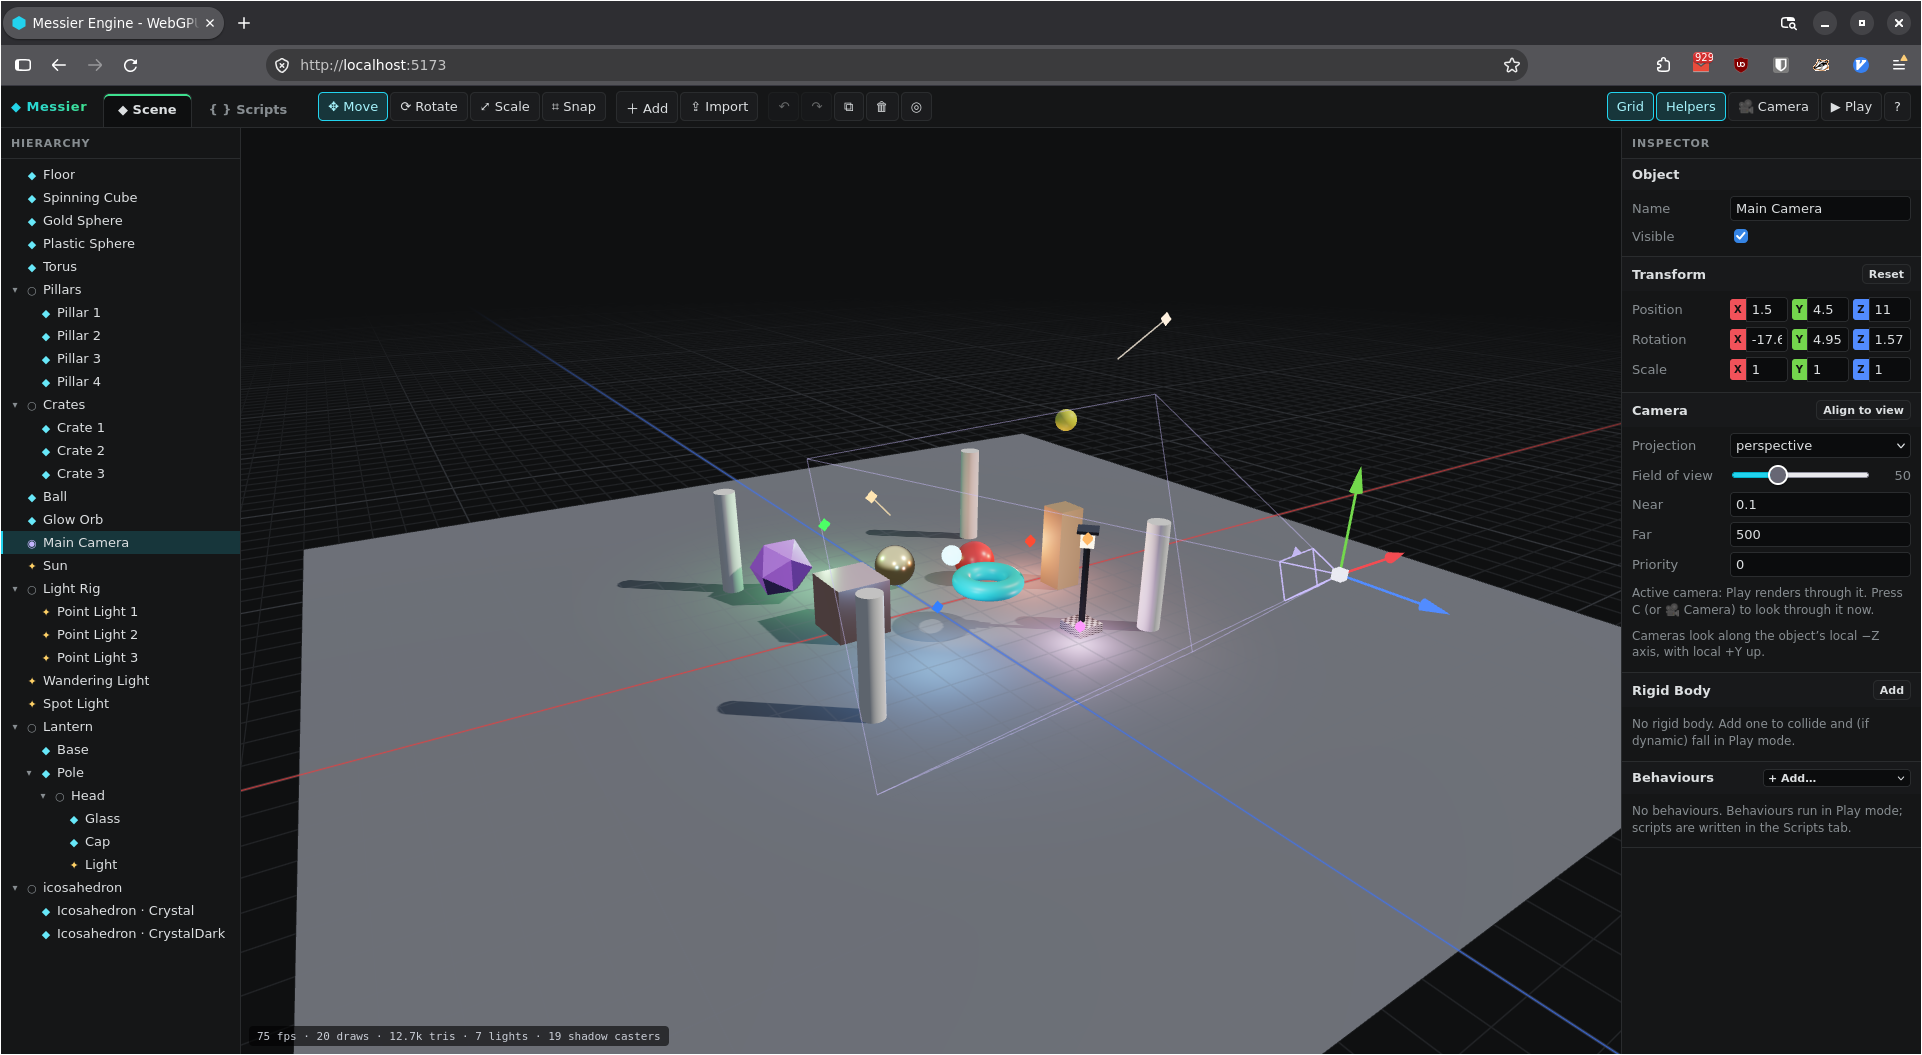
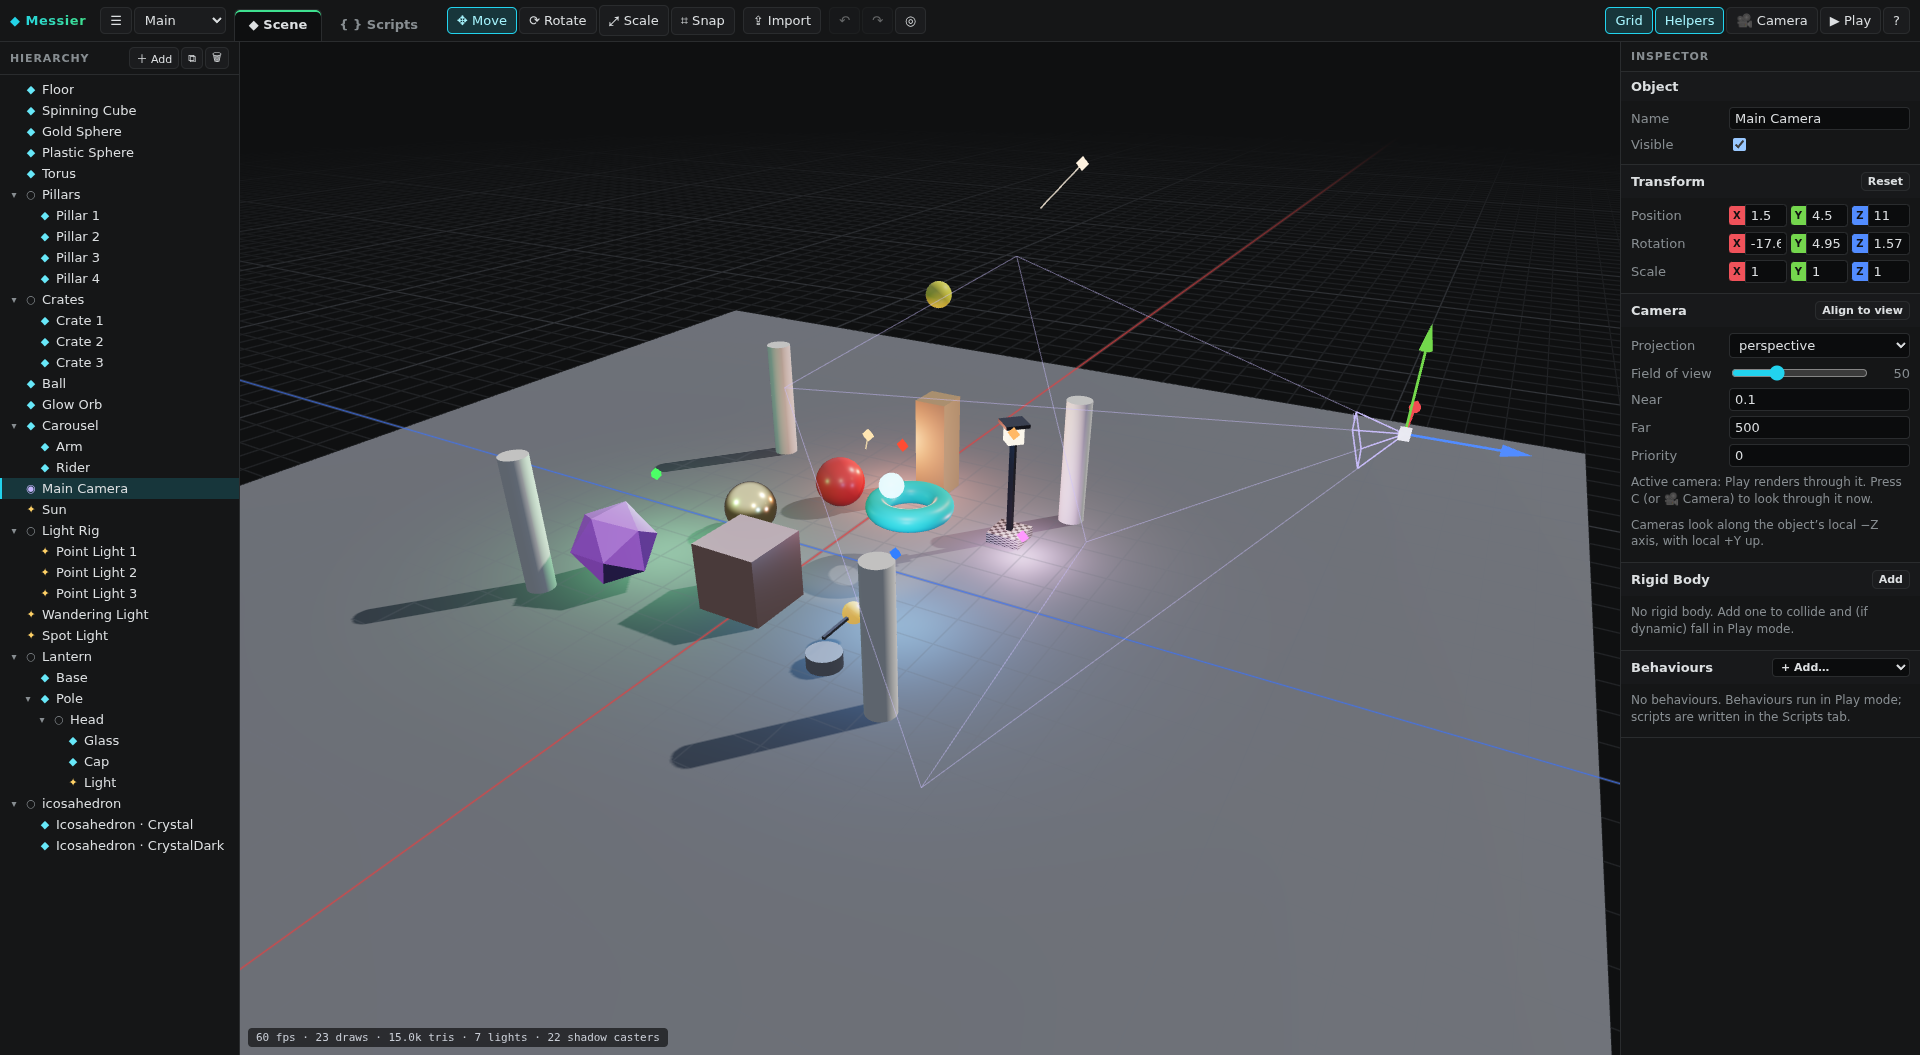
updated UI, new screenshot

diff --git a/index.html b/index.html
@@ -40,32 +40,12 @@
         </div>
 
         <div class="group scene-only">
-          <details class="menu add-menu">
-            <summary class="btn">＋ Add</summary>
-            <div class="menu-items">
-              <div class="menu-title">Mesh</div>
-              <button data-action="add-cube">Cube</button>
-              <button data-action="add-sphere">Sphere</button>
-              <button data-action="add-plane">Plane</button>
-              <button data-action="add-cylinder">Cylinder</button>
-              <button data-action="add-torus">Torus</button>
-              <button data-action="add-empty">Empty</button>
-              <div class="menu-title">Light</div>
-              <button data-action="add-point">Point Light</button>
-              <button data-action="add-spot">Spot Light</button>
-              <button data-action="add-directional">Directional Light</button>
-              <div class="menu-title">Camera</div>
-              <button data-action="add-camera">Camera</button>
-            </div>
-          </details>
           <button class="btn" data-action="import" title="Import .glb / .gltf / .obj models or .ts scripts (or drop files on the viewport)">⇪ Import</button>
         </div>
 
         <div class="group scene-only">
           <button class="btn" data-action="undo" title="Undo (Ctrl+Z)">↶</button>
           <button class="btn" data-action="redo" title="Redo (Ctrl+Shift+Z)">↷</button>
-          <button class="btn" data-action="duplicate" title="Duplicate (Ctrl+D)">⧉</button>
-          <button class="btn" data-action="delete" title="Delete (Del)">🗑</button>
           <button class="btn" data-action="focus" title="Focus selection (F)">◎</button>
         </div>
 
@@ -81,7 +61,31 @@
       </header>
 
       <aside id="hierarchy-panel" class="panel">
-        <div class="panel-title">Hierarchy</div>
+        <div class="panel-title panel-title-row">
+          <span>Hierarchy</span>
+          <div class="group panel-actions">
+            <details class="menu add-menu">
+              <summary class="btn btn-small" title="Add an object">＋ Add</summary>
+              <div class="menu-items">
+                <div class="menu-title">Mesh</div>
+                <button data-action="add-cube">Cube</button>
+                <button data-action="add-sphere">Sphere</button>
+                <button data-action="add-plane">Plane</button>
+                <button data-action="add-cylinder">Cylinder</button>
+                <button data-action="add-torus">Torus</button>
+                <button data-action="add-empty">Empty</button>
+                <div class="menu-title">Light</div>
+                <button data-action="add-point">Point Light</button>
+                <button data-action="add-spot">Spot Light</button>
+                <button data-action="add-directional">Directional Light</button>
+                <div class="menu-title">Camera</div>
+                <button data-action="add-camera">Camera</button>
+              </div>
+            </details>
+            <button class="btn btn-small" data-action="duplicate" title="Duplicate (Ctrl+D)">⧉</button>
+            <button class="btn btn-small" data-action="delete" title="Delete (Del)">🗑</button>
+          </div>
+        </div>
         <div id="hierarchy" class="panel-body"></div>
       </aside>
 

diff --git a/src/editor/editor.css b/src/editor/editor.css
@@ -603,6 +603,20 @@ body.view-scripts #scripts-view {
   padding-top: 5px;
   padding-bottom: 5px;
 }
+/* Buttons in a panel header: undo the title's small caps styling. */
+.panel-actions {
+  font-size: 13px;
+  font-weight: 400;
+  letter-spacing: normal;
+  text-transform: none;
+  color: var(--text);
+}
+/* Same height whatever the glyph (the emoji icons are taller than text). */
+.panel-actions .btn {
+  height: 22px;
+  display: inline-flex;
+  align-items: center;
+}
 .script-row {
   display: flex;
   align-items: center;
